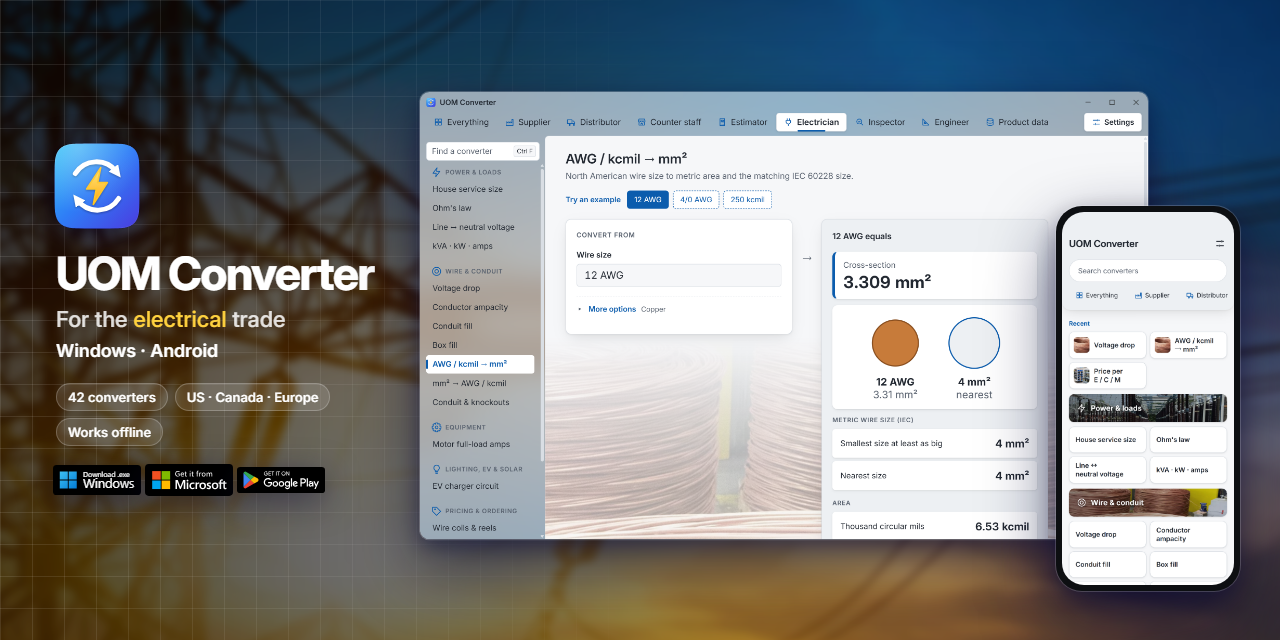
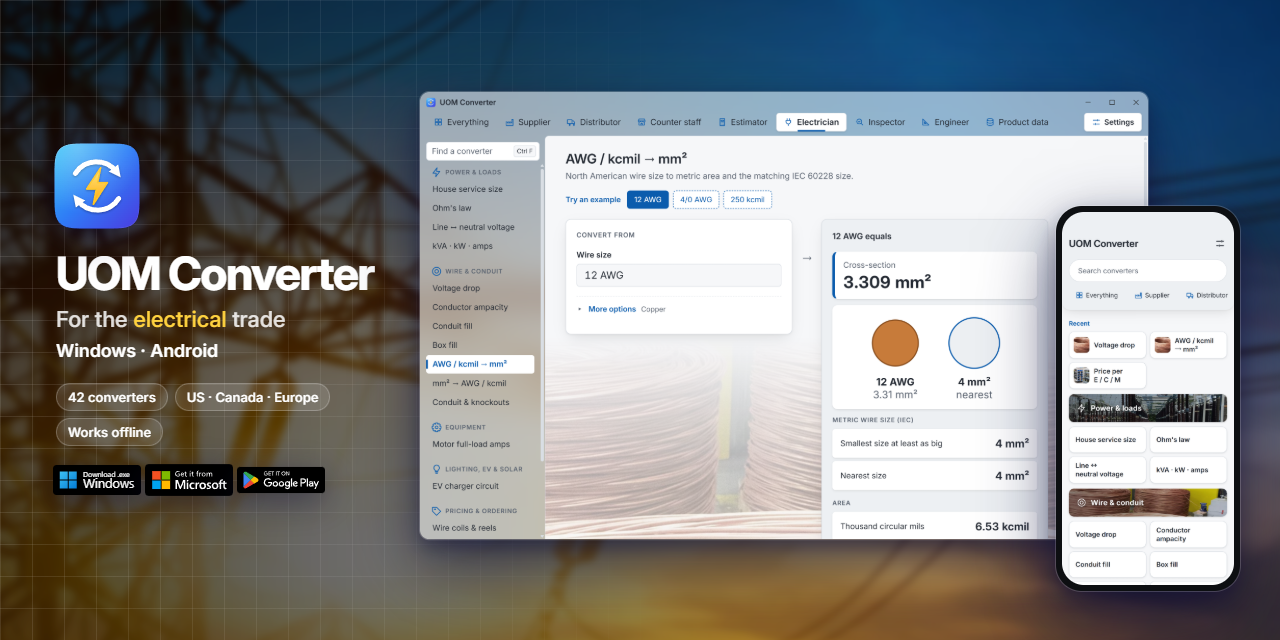
Portfolio tile at 2x in a 540 px window; both promo images from the pipeline
Electron can't open a 1080 px window on a screen whose work area is shorter
(1080 less the taskbar), so render.cjs drew the tile 1080 x 1032 and stopped.
portfolio.html now scales its 1080 px layout to the window, and render.cjs draws
it at 540 x 540 at 2x, as it does the box art. The social preview and the tile
are re-rendered by npm run windows:assets itself, replacing the copies drawn
outside it; the README screenshots and share.png it redrew differed only by
anti-aliasing and stay as they were.

Changed region(s): [[0.3125, 0.7188, 0.4375, 0.8438], [0.625, 0.1875, 0.6562, 0.2188]]

diff --git a/apps/windows/promo/generator/portfolio.html b/apps/windows/promo/generator/portfolio.html
@@ -51,6 +51,9 @@
     const w = el.getBoundingClientRect().width;
     if (w > room) el.style.fontSize = size * room / w + "px";
   }
+  // Laid out at 1080 CSS pixels, then scaled to the window: render.cjs draws it in a 540 px window at 2x, since
+  // Windows won't open one taller than the screen's work area.
+  document.documentElement.style.zoom = innerWidth / 1080;
 </script>
 </body>
 </html>
